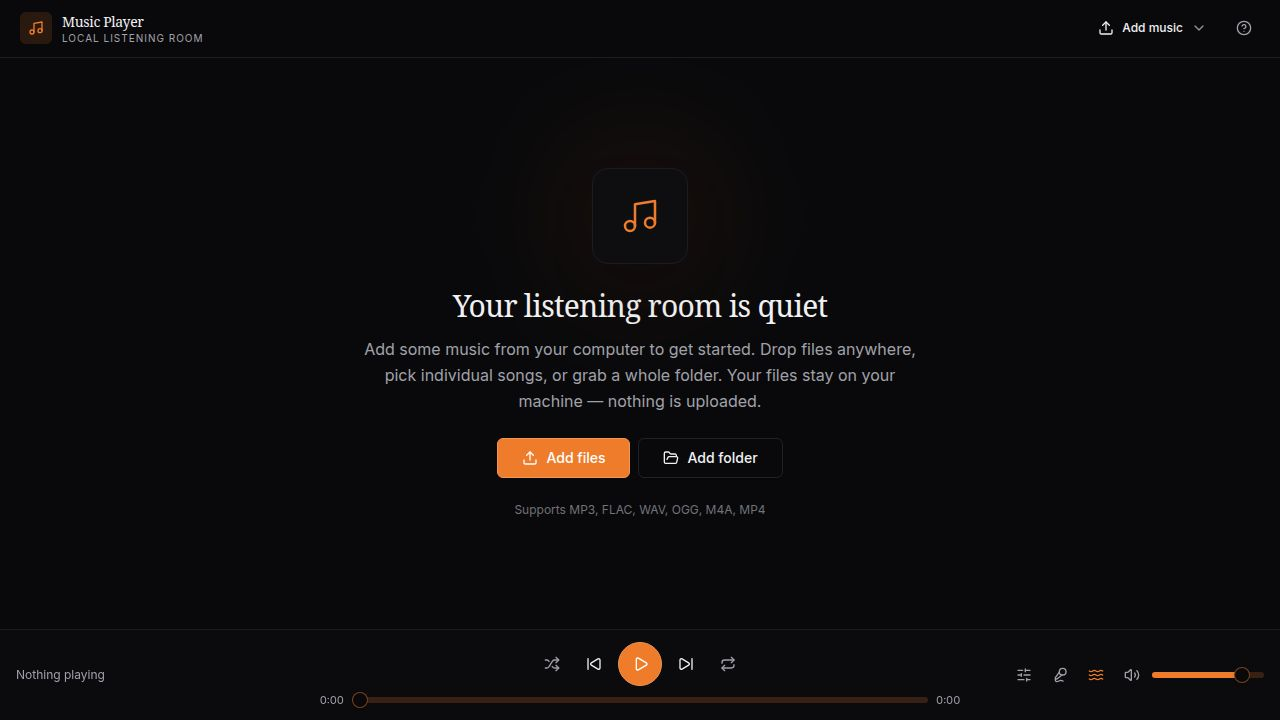
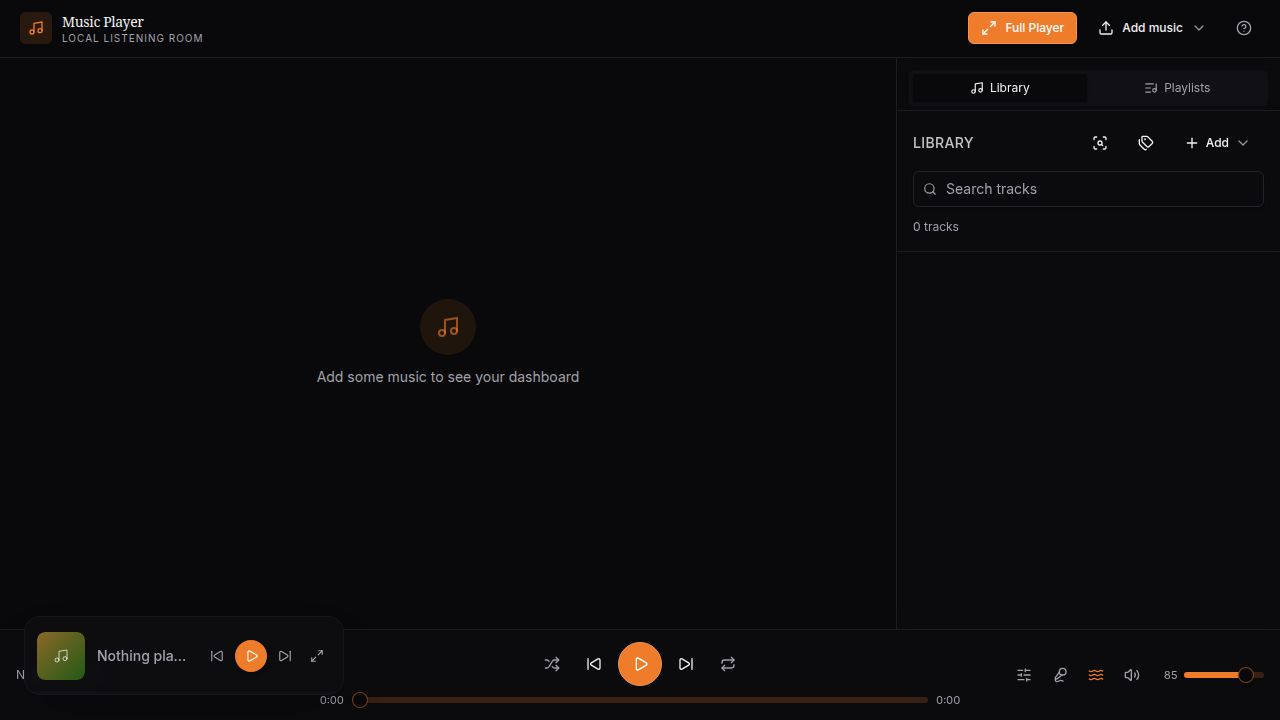
Enhance music player volume control and playback persistence
Adds volume display and mouse wheel control, defaults to mini player mode, and saves/restores the last played song position.

Replit-Commit-Author: Agent
Replit-Commit-Session-Id: 9e62ae4a-16e1-4646-a306-287554e17e26
Replit-Commit-Checkpoint-Type: full_checkpoint
Replit-Commit-Event-Id: 11d84630-610a-4666-98f7-a1c78faa1cf4
Replit-Commit-Screenshot-Url: https://storage.googleapis.com/screenshot-production-us-central1/ffec6365-b102-4a45-a90d-0d7bacc34fef/9e62ae4a-16e1-4646-a306-287554e17e26/v9kVWhg
Replit-Helium-Checkpoint-Created: true

diff --git a/artifacts/music-player/src/components/PlayerControls.tsx b/artifacts/music-player/src/components/PlayerControls.tsx
@@ -275,30 +275,43 @@ export function PlayerControls() {
               </PopoverContent>
             </Popover>
 
-            <Button
-              size="icon"
-              variant="ghost"
-              onClick={toggleMute}
-              className="h-8 w-8 text-muted-foreground"
-              data-testid="button-mute"
-              aria-label="Mute"
+            <div
+              className="flex items-center gap-1.5 flex-1 min-w-0"
+              onWheel={(e) => {
+                e.preventDefault();
+                const delta = e.deltaY < 0 ? 0.01 : -0.01;
+                const next = Math.min(1, Math.max(0, volume + delta));
+                setVolume(next);
+              }}
             >
-              {muted || volume === 0 ? (
-                <VolumeX className="h-4 w-4" />
-              ) : volume < 0.5 ? (
-                <Volume1 className="h-4 w-4" />
-              ) : (
-                <Volume2 className="h-4 w-4" />
-              )}
-            </Button>
-            <Slider
-              value={[muted ? 0 : volume * 100]}
-              max={100}
-              step={1}
-              onValueChange={(v) => setVolume(v[0] / 100)}
-              className="flex-1"
-              data-testid="slider-volume"
-            />
+              <Button
+                size="icon"
+                variant="ghost"
+                onClick={toggleMute}
+                className="h-8 w-8 text-muted-foreground shrink-0"
+                data-testid="button-mute"
+                aria-label="Mute"
+              >
+                {muted || volume === 0 ? (
+                  <VolumeX className="h-4 w-4" />
+                ) : volume < 0.5 ? (
+                  <Volume1 className="h-4 w-4" />
+                ) : (
+                  <Volume2 className="h-4 w-4" />
+                )}
+              </Button>
+              <span className="text-[11px] tabular-nums text-muted-foreground w-6 shrink-0 text-right">
+                {muted ? 0 : Math.round(volume * 100)}
+              </span>
+              <Slider
+                value={[muted ? 0 : volume * 100]}
+                max={100}
+                step={1}
+                onValueChange={(v) => setVolume(v[0] / 100)}
+                className="flex-1"
+                data-testid="slider-volume"
+              />
+            </div>
           </div>
         </div>
       </div>

diff --git a/artifacts/music-player/src/lib/player-context.tsx b/artifacts/music-player/src/lib/player-context.tsx
@@ -620,6 +620,27 @@ export function PlayerProvider({ children }: { children: ReactNode }) {
     }
   }, [currentTrack, isPlaying]);
 
+  // ── Save last session (track + position) to localStorage ──────────────────
+  useEffect(() => {
+    const save = () => {
+      const id = currentTrackIdRef.current;
+      const audio = audioRef.current;
+      if (!id || !audio) return;
+      try {
+        localStorage.setItem(
+          "last-session",
+          JSON.stringify({ trackId: id, position: Math.floor(audio.currentTime) }),
+        );
+      } catch {}
+    };
+    window.addEventListener("beforeunload", save);
+    const interval = setInterval(save, 10_000);
+    return () => {
+      window.removeEventListener("beforeunload", save);
+      clearInterval(interval);
+    };
+  }, []);
+
   const seek = useCallback((time: number) => {
     const audio = audioRef.current;
     if (!audio) return;
@@ -796,6 +817,34 @@ export function PlayerProvider({ children }: { children: ReactNode }) {
               const have = new Set(prev.map((t) => t.id));
               return [...prev, ...restored.filter((t) => !have.has(t.id))];
             });
+
+            // Restore last session — load track paused at saved position
+            try {
+              const raw = localStorage.getItem("last-session");
+              if (raw) {
+                const { trackId, position } = JSON.parse(raw) as {
+                  trackId: string;
+                  position: number;
+                };
+                const track = restored.find((t) => t.id === trackId);
+                if (track && audioRef.current) {
+                  const audio = audioRef.current;
+                  audio.src = track.url;
+                  setCurrentTrackId(trackId);
+                  setCurrentTime(position);
+                  audio.addEventListener(
+                    "loadedmetadata",
+                    () => {
+                      audio.currentTime = Math.min(
+                        position,
+                        isFinite(audio.duration) ? audio.duration : position,
+                      );
+                    },
+                    { once: true },
+                  );
+                }
+              }
+            } catch {}
           }
         }
 

diff --git a/artifacts/music-player/src/pages/Player.tsx b/artifacts/music-player/src/pages/Player.tsx
@@ -39,7 +39,7 @@ export default function Player() {
   } = usePlayer();
 
   const [shortcutsOpen, setShortcutsOpen] = useState(false);
-  const [miniMode,      setMiniMode]      = useState(false);
+  const [miniMode,      setMiniMode]      = useState(true);
   const [dragOver,      setDragOver]      = useState(false);
   const dragCounter = useRef(0);
   const fileRef     = useRef<HTMLInputElement>(null);